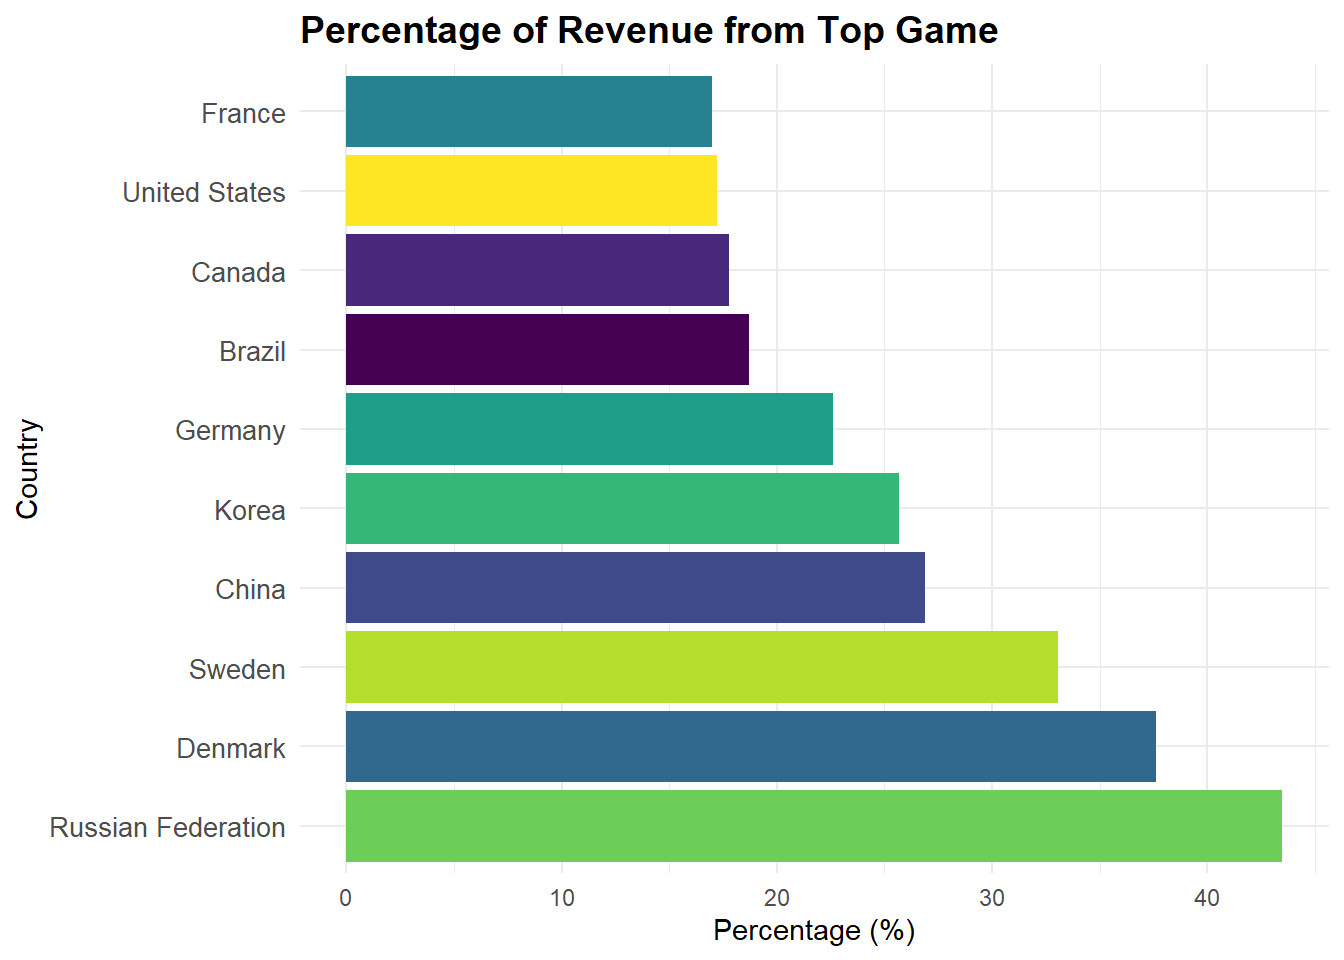
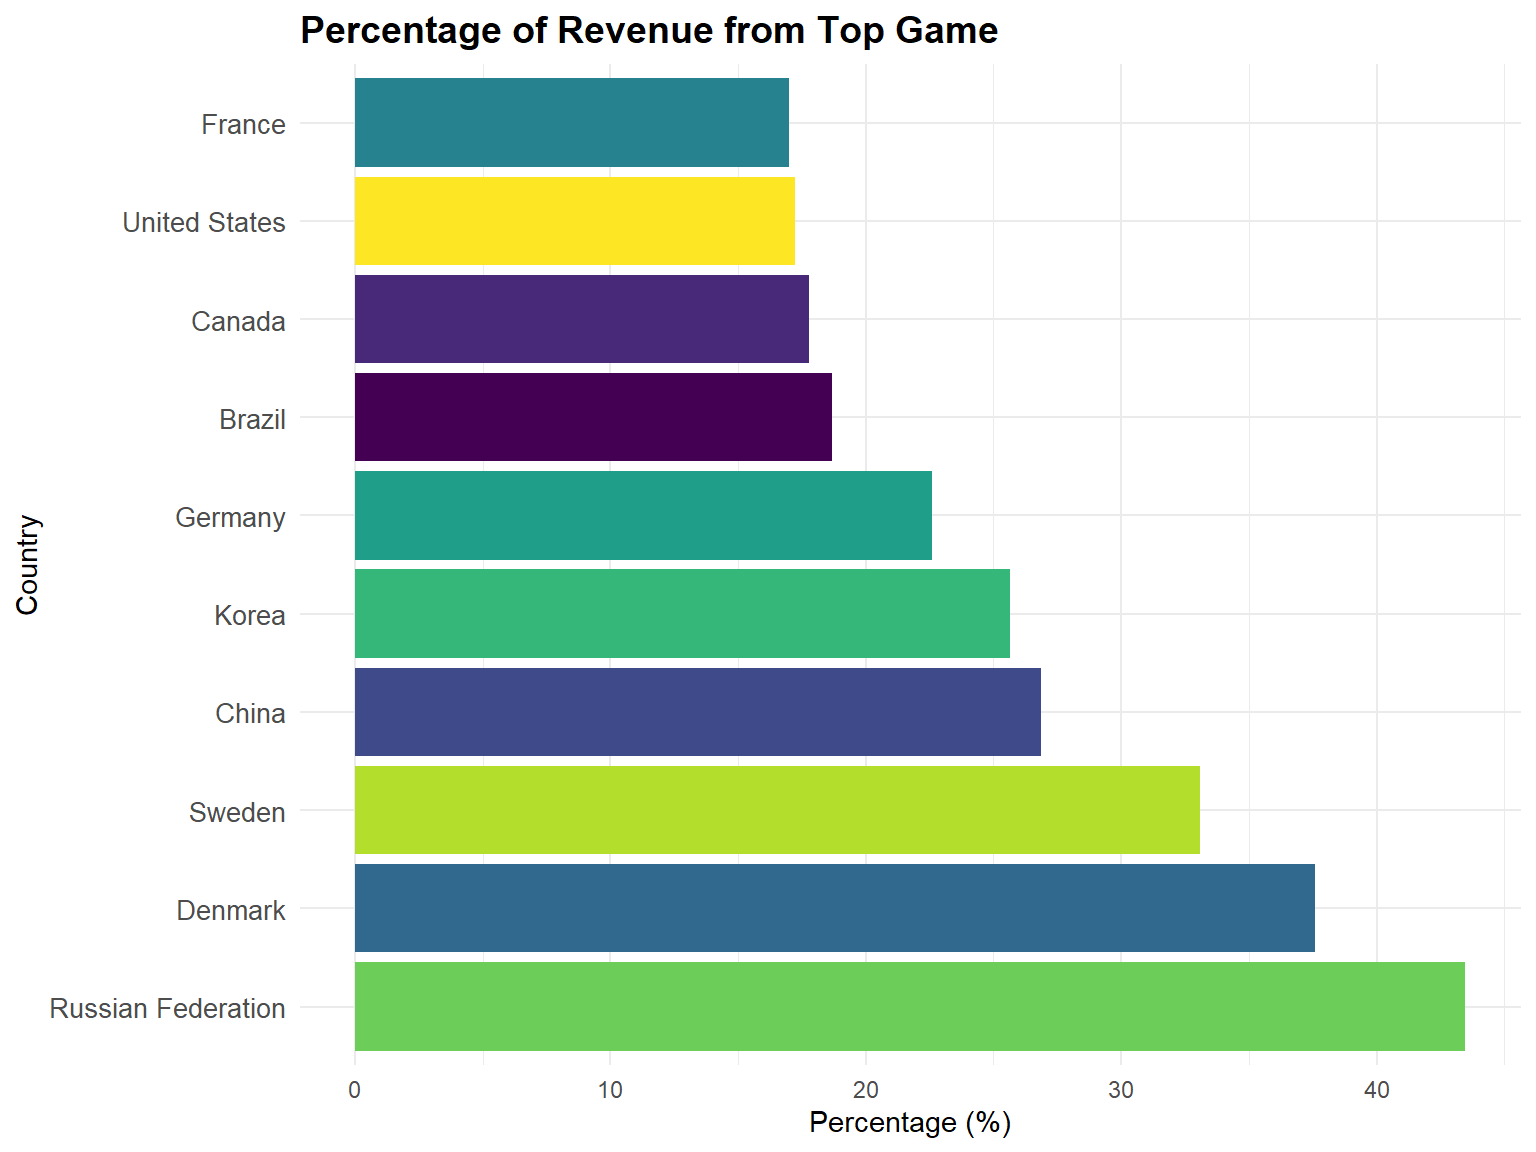
update format

Changed region(s): [[0.0312, 0.0, 0.9688, 1.0], [0.0, 0.4375, 0.0312, 0.5312]]

diff --git a/report.html b/report.html
@@ -276,7 +276,7 @@ $(document).ready(function () {
 
 
 <hr />
-<p>title: “Esport Report” date: “2024-12-02” output: github_document</p>
+<p>title: “Esport Report” date: “2024-12-02” output: html_document</p>
 <hr />
 <pre class="r"><code>library(rvest)
 library(dplyr)
@@ -286,7 +286,24 @@ library(ggplot2)
 library(tidyr)
 library(maps)
 library(knitr)
-library(viridis)</code></pre>
+library(viridis)
+
+knitr::opts_chunk$set(
+  fig.width = 8,      
+  fig.asp = 0.75,     
+  out.width = &quot;80%&quot;   
+)
+
+
+theme_set(theme_minimal() + theme(legend.position = &quot;right&quot;))
+
+options(
+  ggplot2.continuous.colour = &quot;viridis&quot;,
+  ggplot2.continuous.fill = &quot;viridis&quot;
+)
+
+scale_colour_discrete = scale_colour_viridis_d
+scale_fill_discrete = scale_fill_viridis_d</code></pre>
 <p><strong>Project Name:</strong> <em>Play by Numbers: Esports Trends
 Unveiled</em></p>
 <p><strong>Project Members:</strong> Xun Sun (xs2569), Xinghao Qiao
@@ -449,7 +466,7 @@ data &lt;- data %&gt;%
 head(data)</code></pre>
 <pre><code>##   Rank            Country Total_Earnings Number_of_Players
 ## 1    1              China      319027144              9009
-## 2    2      United States      287353063             28021
+## 2    2      United States      287363427             28023
 ## 3    3              Korea      151431446              5883
 ## 4    4 Russian Federation       87647289              5489
 ## 5    5             Brazil       67055290              5482
@@ -463,7 +480,7 @@ head(data)</code></pre>
 ## 6 Counter-Strike: Global Offensive         $23,081,252.63                37.60%
 ##   average_earning_per_player
 ## 1                   35412.05
-## 2                   10254.92
+## 2                   10254.56
 ## 3                   25740.51
 ## 4                   15967.81
 ## 5                   12231.90
@@ -720,7 +737,7 @@ head(top_countries_long)</code></pre>
 ##   &lt;chr&gt;         &lt;chr&gt;                  &lt;dbl&gt;
 ## 1 China         Total Earnings    319027144.
 ## 2 China         Top Game Earnings  85737773.
-## 3 United States Total Earnings    287353063.
+## 3 United States Total Earnings    287363427.
 ## 4 United States Top Game Earnings  49472180.
 ## 5 Korea         Total Earnings    151431446.
 ## 6 Korea         Top Game Earnings  38839897.</code></pre>
@@ -730,7 +747,7 @@ top-performing game in each country.</p>
 <pre class="r"><code>ggplot(top_countries_long, aes(x = reorder(Country, -Earnings), y = Earnings, fill = Earnings_Type)) +
   geom_bar(stat = &quot;identity&quot;, position = &quot;identity&quot;, alpha = 0.9) +
   coord_flip() +
-  scale_fill_manual(values = c(&quot;red&quot;, &quot;gold&quot;)) +
+  scale_fill_manual(values = c(&quot;blue&quot;, &quot;#ADD8E6&quot;)) +
   scale_y_continuous(labels = scales::comma) +
   labs(
     title = &quot;Top 10 Countries: Total vs. Top Game Earnings&quot;,
@@ -742,7 +759,7 @@ top-performing game in each country.</p>
     legend.position = &quot;top&quot;,
     axis.text.y = element_text(size = 10)
   )</code></pre>
-<p><img src="report_files/figure-html/unnamed-chunk-9-1.png" width="672" />
+<p><img src="report_files/figure-html/unnamed-chunk-9-1.png" width="80%" />
 From the chart, we can see China leads significantly in both categories,
 with the United States and Korea following. The dominance of top games
 in total earnings varies, with some countries like Korea showing a
@@ -765,26 +782,29 @@ each country’s esports economy on a single title.</p>
     legend.position = &quot;none&quot;,
     axis.text.y = element_text(size = 10)
   )</code></pre>
-<p><img src="report_files/figure-html/unnamed-chunk-10-1.png" width="672" /></p>
+<p><img src="report_files/figure-html/unnamed-chunk-10-1.png" width="80%" /></p>
 <p>This visualization provides a bubble chart to analyze the
 relationship between the number of esports players and their total
 earnings for each country.</p>
-<pre class="r"><code>ggplot(top_countries, aes(x = reorder(Country, -Player_Count), y = Player_Count, size = Total_Earnings)) +
-  geom_point(color = &quot;blue&quot;, alpha = 0.7) +
+<pre class="r"><code>ggplot(top_countries, aes(x = reorder(Country, -Player_Count), y = Player_Count, size = Total_Earnings, color = Player_Count)) +
+  geom_point(alpha = 0.7) +
   coord_flip() +
   scale_y_continuous(labels = scales::comma) +
   scale_size_continuous(labels = scales::comma) +
+  scale_color_viridis_c(option = &quot;viridis&quot;) + 
   labs(
     title = &quot;Total Players by Country (Bubble Size = Total Earnings)&quot;,
     x = &quot;Country&quot;, y = &quot;Number of Players&quot;,
-    size = &quot;Total Earnings (USD)&quot;
+    size = &quot;Total Earnings (USD)&quot;,
+    color = &quot;Player Count&quot;  
   ) +
   theme_minimal() +
   theme(
     plot.title = element_text(size = 14, face = &quot;bold&quot;),
-    axis.text.y = element_text(size = 10)
+    axis.text.y = element_text(size = 10),
+    legend.position = &quot;bottom&quot; 
   )</code></pre>
-<p><img src="report_files/figure-html/unnamed-chunk-11-1.png" width="672" /></p>
+<p><img src="report_files/figure-html/unnamed-chunk-11-1.png" width="80%" /></p>
 </div>
 <div id="top-players-analysis" class="section level4">
 <h4>2. Top Players analysis</h4>
@@ -800,12 +820,13 @@ top_players &lt;- esports_top100 %&gt;%
 
 # Create a bar chart for the top 10 players by earnings
 ggplot(top_players, aes(x = reorder(Player_Name, Total_Earnings), y = Total_Earnings, fill = Highest_Paying_Game)) +
-  geom_bar(stat = &quot;identity&quot;) +
+  geom_bar(stat = &quot;identity&quot;, alpha = 0.8) +  # Add alpha for lighter colors
   geom_text(
     aes(label = paste0(&quot;ID: &quot;, Player_ID, &quot;\n$&quot;, formatC(Total_Earnings, format = &quot;f&quot;, big.mark = &quot;,&quot;))),
-    hjust = 1, size = 3
+    hjust = 1, size = 3, color = &quot;white&quot;  # Set text color to white
   ) +  # Add Player ID and earnings as labels
   coord_flip() +
+  scale_fill_viridis_d(option = &quot;viridis&quot;, name = &quot;Top Game&quot;, begin = 0.3, end = 0.8) + 
   labs(
     title = &quot;Top 10 Players by Total Earnings&quot;,
     x = &quot;Player Name&quot;,
@@ -818,7 +839,7 @@ ggplot(top_players, aes(x = reorder(Player_Name, Total_Earnings), y = Total_Earn
     axis.text.x = element_text(size = 10),
     axis.text.y = element_text(size = 10)
   )</code></pre>
-<p><img src="report_files/figure-html/unnamed-chunk-12-1.png" width="672" />
+<p><img src="report_files/figure-html/unnamed-chunk-12-1.png" width="80%" />
 All of the top 10 highest-earning players have earned their fortunes
 from Dota 2, with Johan Sundstein (N0tail) leading the list at over $7
 million, highlighting the game’s massive prize pools and dominance in
@@ -946,7 +967,7 @@ ggplot(country_summary1, aes(x = &quot;&quot;, y = Player_Count, fill = Country)
     legend.title = element_text(size = 12),
     legend.text = element_text(size = 10)
   )</code></pre>
-<p><img src="report_files/figure-html/unnamed-chunk-14-1.png" width="672" /></p>
+<p><img src="report_files/figure-html/unnamed-chunk-14-1.png" width="80%" /></p>
 <p>The distribution of top 500 players earnings by country</p>
 <pre class="r"><code># Filter small values and group as &quot;Other&quot;
 threshold &lt;- 2e6  # Define a threshold for minimum total earnings
@@ -976,19 +997,22 @@ ggplot(country_summary2, aes(x = &quot;&quot;, y = Total_Earnings, fill = Countr
     legend.title = element_text(size = 12),
     legend.text = element_text(size = 10)
   )</code></pre>
-<p><img src="report_files/figure-html/unnamed-chunk-15-1.png" width="672" />
-- From Top 500 Players by Country (Proportion), <strong>United States,
+<p><img src="report_files/figure-html/unnamed-chunk-15-1.png" width="80%" /></p>
+<ul>
+<li>From Top 500 Players by Country (Proportion), <strong>United States,
 China, and South Korea</strong> dominate in player representation,
 reflecting strong esports ecosystems.The “Other” category includes
 countries with fewer top players, highlighting the concentration of
-talent in key regions. - From Total Earnings by Country (Top 500
-Players), <strong>China</strong> leads in total earnings, followed by
-the <strong>United States</strong> and <strong>South Korea</strong>,
+talent in key regions.</li>
+<li>From Total Earnings by Country (Top 500 Players),
+<strong>China</strong> leads in total earnings, followed by the
+<strong>United States</strong> and <strong>South Korea</strong>,
 showcasing financial dominance. Smaller countries like
 <strong>Denmark</strong> and <strong>Ukraine</strong> excel in earnings
-despite fewer players, indicating high efficiency and performance. -
-Esports talent and earnings are concentrated in a few regions, with
-smaller countries showing strong player efficiency.</p>
+despite fewer players, indicating high efficiency and performance.</li>
+<li>Esports talent and earnings are concentrated in a few regions, with
+smaller countries showing strong player efficiency.</li>
+</ul>
 <p>The distribution of top players earning by countries</p>
 <pre class="r"><code># Clean and prepare data
 top500_365 &lt;- top500_365 %&gt;%
@@ -998,8 +1022,13 @@ top500_365 &lt;- top500_365 %&gt;%
   ) %&gt;%
   drop_na(Total_Earnings)  # Remove rows with missing earnings
 
+# Filter countries with more than 10 players
+filtered_countries &lt;- top500_365 %&gt;%
+  group_by(Country) %&gt;%
+  filter(n() &gt; 5)  # Keep only countries with more than 10 players
+
 # Create the boxplot
-ggplot(top500_365, aes(x = reorder(Country, -Total_Earnings, median), y = log(Total_Earnings), fill = Country)) +
+ggplot(filtered_countries, aes(x = reorder(Country, -Total_Earnings, median), y = log(Total_Earnings), fill = Country)) +
   geom_boxplot(outlier.color = &quot;red&quot;, outlier.shape = 16, outlier.size = 1.5, alpha = 0.7) +
   labs(
     title = &quot;Distribution of Player Earnings by Country (Log Scale)&quot;,
@@ -1012,7 +1041,7 @@ ggplot(top500_365, aes(x = reorder(Country, -Total_Earnings, median), y = log(To
     legend.position = &quot;none&quot;,
     plot.title = element_text(size = 16, face = &quot;bold&quot;)
   )</code></pre>
-<p><img src="report_files/figure-html/unnamed-chunk-16-1.png" width="672" /></p>
+<p><img src="report_files/figure-html/unnamed-chunk-16-1.png" width="80%" /></p>
 </div>
 </div>
 <div id="longitudinal-comparison" class="section level3">
@@ -1060,18 +1089,18 @@ head(yearly_earnings)</code></pre>
 ## 3  2020     144918094.
 ## 4  2021     255439856.
 ## 5  2022     239756324.
-## 6  2023     229104847.</code></pre>
+## 6  2023     229106123.</code></pre>
 <pre class="r"><code># Plot the trend line
 ggplot(yearly_earnings, aes(x = Year, y = Total_Earnings)) +
-  geom_line(color = &quot;orange&quot;, size = 1) +
-  geom_point(color = &quot;red&quot;, size = 2) +
+  geom_line(color = &quot;#ADD8E6&quot;, size = 1) +
+  geom_point(color = &quot;blue&quot;, size = 2) +
   labs(
     title = &quot;Total Earnings Trends Over Time (2018-2024)&quot;,
     x = &quot;Year&quot;,
     y = &quot;Total Earnings (USD)&quot;
   ) +
   theme_minimal()</code></pre>
-<p><img src="report_files/figure-html/unnamed-chunk-17-1.png" width="672" /></p>
+<p><img src="report_files/figure-html/unnamed-chunk-17-1.png" width="80%" /></p>
 </div>
 <div id="top-10-countries-earnings-trend-2018-2024"
 class="section level4">
@@ -1117,10 +1146,11 @@ top_countries &lt;- yearly_country_earnings %&gt;%
 top_country_trends &lt;- yearly_country_earnings %&gt;%
   filter(Countries %in% top_countries$Countries)
 
-# Step 4: Plot yearly trends for the top 10 countries
+# Step 4: Plot yearly trends for the top 10 countries with a consistent color theme
 ggplot(top_country_trends, aes(x = Year, y = Total_Earnings, color = Countries)) +
   geom_line(size = 1) +
   geom_point(size = 2) +
+  scale_color_viridis_d(option = &quot;plasma&quot;, name = &quot;Country&quot;) +  # Use the &quot;plasma&quot; palette from viridis
   labs(
     title = &quot;Yearly Earnings Trends for Top 10 Countries (2018-2024)&quot;,
     x = &quot;Year&quot;,
@@ -1135,7 +1165,7 @@ ggplot(top_country_trends, aes(x = Year, y = Total_Earnings, color = Countries))
     legend.text = element_text(size = 10),
     legend.key.size = unit(0.6, &quot;cm&quot;)  # Adjust legend key size for better fit
   )</code></pre>
-<p><img src="report_files/figure-html/unnamed-chunk-18-1.png" width="672" /></p>
+<p><img src="report_files/figure-html/unnamed-chunk-18-1.png" width="80%" /></p>
 </div>
 <div id="top-10-games-earnings-trend-2018-2024" class="section level4">
 <h4>3. Top 10 Games Earnings Trend (2018-2024)</h4>
@@ -1195,7 +1225,7 @@ ggplot(top_game_trends, aes(x = Year, y = Total_Earnings, color = Game)) +
     axis.title = element_text(size = 12),
     axis.text = element_text(size = 10)
   )</code></pre>
-<p><img src="report_files/figure-html/unnamed-chunk-19-1.png" width="672" /></p>
+<p><img src="report_files/figure-html/unnamed-chunk-19-1.png" width="80%" /></p>
 </div>
 <div id="overall-observations" class="section level4">
 <h4>4. Overall Observations</h4>
@@ -1315,7 +1345,7 @@ ggplot(data = map_data_merged, aes(x = long, y = lat, group = group, fill = Tota
   theme(
     plot.title = element_text(size = 16, face = &quot;bold&quot;, hjust = 0.5)
   )</code></pre>
-<p><img src="report_files/figure-html/unnamed-chunk-21-1.png" width="672" /></p>
+<p><img src="report_files/figure-html/unnamed-chunk-21-1.png" width="80%" /></p>
 </div>
 <div id="average-earnings-from-top-500-players-by-country"
 class="section level3">
@@ -1337,7 +1367,7 @@ ggplot(data = map_data_merged, aes(x = long, y = lat, group = group, fill = Aver
   theme(
     plot.title = element_text(size = 16, face = &quot;bold&quot;, hjust = 0.5)
   )</code></pre>
-<p><img src="report_files/figure-html/unnamed-chunk-22-1.png" width="672" /></p>
+<p><img src="report_files/figure-html/unnamed-chunk-22-1.png" width="80%" /></p>
 </div>
 <div id="number-of-players-from-top-500-players-by-country"
 class="section level3">
@@ -1359,7 +1389,7 @@ ggplot(data = map_data_merged, aes(x = long, y = lat, group = group, fill = Play
   theme(
     plot.title = element_text(size = 16, face = &quot;bold&quot;, hjust = 0.5)
   )</code></pre>
-<p><img src="report_files/figure-html/unnamed-chunk-23-1.png" width="672" /></p>
+<p><img src="report_files/figure-html/unnamed-chunk-23-1.png" width="80%" /></p>
 </div>
 </div>
 <div id="statistical-analysis" class="section level2">
@@ -1433,44 +1463,44 @@ data |&gt;
 <tbody>
 <tr class="odd">
 <td align="left">(Intercept)</td>
-<td align="right">7.06983</td>
+<td align="right">7.06981</td>
 <td align="right">0.22270</td>
-<td align="right">31.74545</td>
+<td align="right">31.74525</td>
 <td align="right">0.00000</td>
 </tr>
 <tr class="even">
 <td align="left">Year</td>
-<td align="right">0.13133</td>
+<td align="right">0.13127</td>
 <td align="right">0.04362</td>
-<td align="right">3.01091</td>
-<td align="right">0.00266</td>
+<td align="right">3.00949</td>
+<td align="right">0.00267</td>
 </tr>
 <tr class="odd">
 <td align="left">Total_Players</td>
 <td align="right">0.00515</td>
 <td align="right">0.00032</td>
-<td align="right">16.12475</td>
+<td align="right">16.12328</td>
 <td align="right">0.00000</td>
 </tr>
 <tr class="even">
 <td align="left">Total_Tournaments</td>
 <td align="right">0.01190</td>
 <td align="right">0.00163</td>
-<td align="right">7.28361</td>
+<td align="right">7.28283</td>
 <td align="right">0.00000</td>
 </tr>
 <tr class="odd">
 <td align="left">Frequency</td>
-<td align="right">0.35920</td>
+<td align="right">0.35926</td>
 <td align="right">0.03912</td>
-<td align="right">9.18259</td>
+<td align="right">9.18437</td>
 <td align="right">0.00000</td>
 </tr>
 <tr class="even">
 <td align="left">Total_Players:Total_Tournaments</td>
 <td align="right">-0.00001</td>
 <td align="right">0.00000</td>
-<td align="right">-12.03167</td>
+<td align="right">-12.03205</td>
 <td align="right">0.00000</td>
 </tr>
 </tbody>
@@ -1484,16 +1514,16 @@ summary(model_interaction)</code></pre>
 ## 
 ## Residuals:
 ##     Min      1Q  Median      3Q     Max 
-## -8.4410 -2.1929  0.0398  2.1292  9.9317 
+## -8.4403 -2.1929  0.0397  2.1295  9.9343 
 ## 
 ## Coefficients:
 ##                                   Estimate Std. Error t value Pr(&gt;|t|)    
 ## (Intercept)                      7.070e+00  2.227e-01  31.745  &lt; 2e-16 ***
-## Year                             1.313e-01  4.362e-02   3.011  0.00266 ** 
-## Total_Players                    5.148e-03  3.193e-04  16.125  &lt; 2e-16 ***
-## Total_Tournaments                1.190e-02  1.633e-03   7.284 5.89e-13 ***
-## Frequency                        3.592e-01  3.912e-02   9.183  &lt; 2e-16 ***
-## Total_Players:Total_Tournaments -8.050e-06  6.691e-07 -12.032  &lt; 2e-16 ***
+## Year                             1.313e-01  4.362e-02   3.009  0.00267 ** 
+## Total_Players                    5.148e-03  3.193e-04  16.123  &lt; 2e-16 ***
+## Total_Tournaments                1.190e-02  1.633e-03   7.283 5.92e-13 ***
+## Frequency                        3.593e-01  3.912e-02   9.184  &lt; 2e-16 ***
+## Total_Players:Total_Tournaments -8.051e-06  6.691e-07 -12.032  &lt; 2e-16 ***
 ## ---
 ## Signif. codes:  0 &#39;***&#39; 0.001 &#39;**&#39; 0.01 &#39;*&#39; 0.05 &#39;.&#39; 0.1 &#39; &#39; 1
 ## 
@@ -1517,7 +1547,7 @@ plot(model_interaction, which = 1, main = &quot;Residuals vs Fitted&quot;)
 
 # Normal Q-Q plot
 plot(model_interaction, which = 2, main = &quot;Normal Q-Q Plot&quot;)</code></pre>
-<p><img src="report_files/figure-html/unnamed-chunk-27-1.png" width="672" /></p>
+<p><img src="report_files/figure-html/unnamed-chunk-27-1.png" width="80%" /></p>
 <p>The model provides significant insights into the predictors of
 esports earnings, with key variables such as Total_Players,
 Total_Tournaments, and Frequency showing strong effects. However,
